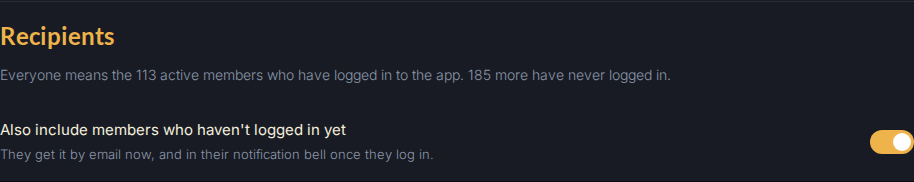
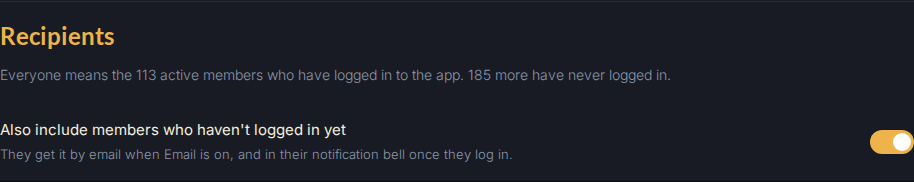
Check the toggle's checked attribute, not the word
The toggle's x-on:change reads $event.target.checked, so a substring check for "checked" failed the toggle off spec and let the resumed draft spec pass whatever the toggle showed. Both now look for the attribute itself. The screenshot shows the toggle's current wording.

Claude-Session: https://claude.ai/code/session_01G9PHHCFFwBZzNerP8Qpjwh

Changed region(s): [[0.1225, 0.8242, 0.5514, 0.8791]]

diff --git a/tests/hub/announcement_compose_spec.py b/tests/hub/announcement_compose_spec.py
@@ -1340,6 +1340,12 @@ def describe_site_members_who_never_logged_in():
         assert match
         return match.group(0)
 
+    def _is_checked(tag: str) -> bool:
+        # The attribute itself, not the word: the toggle's x-on:change reads $event.target.checked.
+        import re
+
+        return re.search(r"\schecked(?=[\s>/])", tag) is not None
+
     def it_shows_both_counts_and_the_toggle_off_to_an_admin(client: Client):
         _login_admin(client)
         _never_logged_in()
@@ -1355,7 +1361,7 @@ def describe_site_members_who_never_logged_in():
         assert f"Everyone means the {logged_in} active member" in content
         assert "1 more has never logged in." in content
         assert "Also include members who haven" in content
-        assert "checked" not in _toggle_input(content)
+        assert not _is_checked(_toggle_input(content))
         assert response.context["initial_recipient_count"] == logged_in
 
     def it_switches_the_count_in_the_browser_without_refreshing_the_discord_picker(client: Client):
@@ -1414,7 +1420,7 @@ def describe_site_members_who_never_logged_in():
         _never_logged_in()
         draft = AnnouncementDraftFactory(audience="site", include_never_logged_in=True)
         response = client.get(reverse("hub_compose_resume", args=[draft.pk]))
-        assert "checked" in _toggle_input(response.content.decode())
+        assert _is_checked(_toggle_input(response.content.decode()))
         assert response.context["initial_recipient_count"] == _compose_count_for(
             "site", None, include_never_logged_in=True
         )
